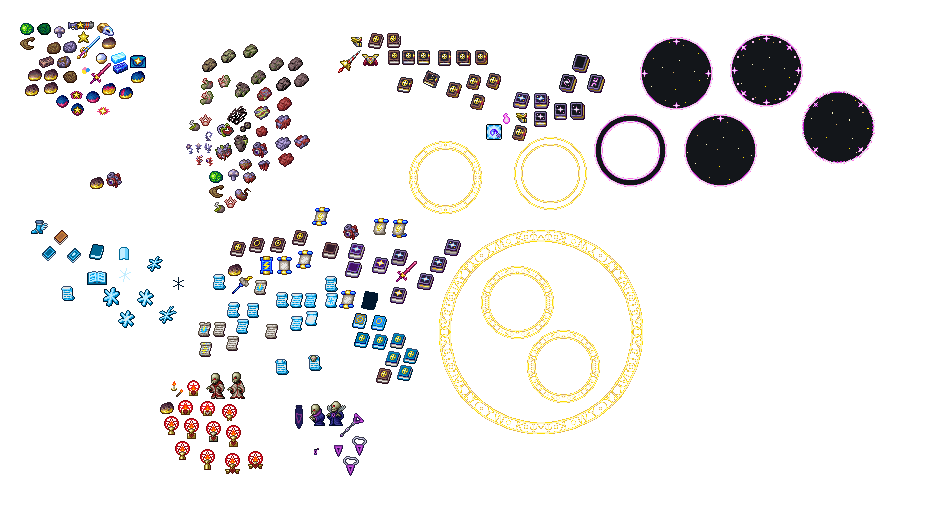
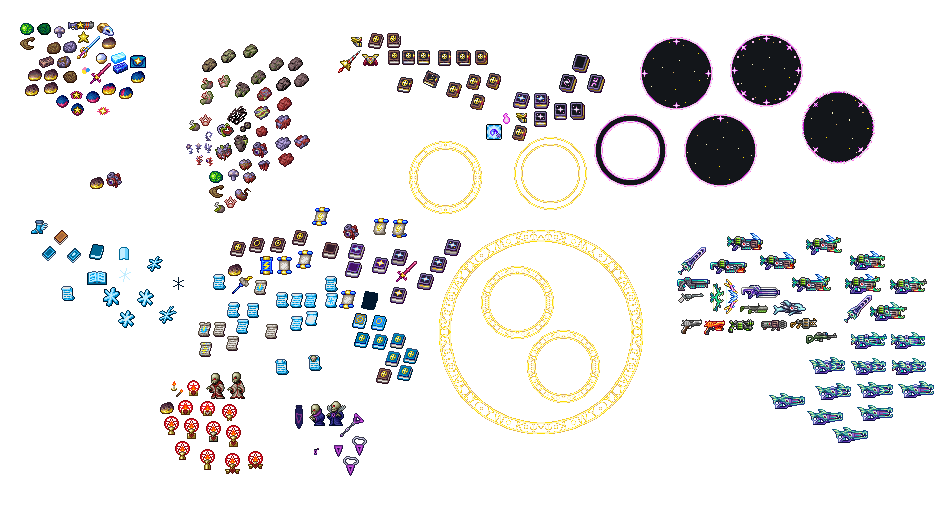
Meridian WIP

Changed region(s): [[0.7058, 0.4341, 1.0, 0.8682]]

diff --git a/Content/Items/Weapons/Ranged/Meridian.cs b/Content/Items/Weapons/Ranged/Meridian.cs
@@ -1,0 +1,166 @@
+using Microsoft.Xna.Framework;
+using SuperfluityTwo.Content.Projectiles;
+using Terraria;
+using Terraria.DataStructures;
+using Terraria.ID;
+using Terraria.ModLoader;
+
+namespace SuperfluityTwo.Content.Items.Weapons.Ranged
+{
+	public class Meridian : ModItem
+	{
+		public override void SetDefaults()
+		{
+			Item.width = 52;
+			Item.height = 24;
+			Item.useStyle = ItemUseStyleID.Shoot;
+			Item.shootSpeed = 20f;
+			Item.UseSound = SoundID.Item38;
+			Item.useAnimation = 12;
+			Item.useTime = 4;
+			Item.noMelee = true;
+			Item.crit = 29;
+			Item.damage = 190;
+			Item.DamageType = DamageClass.Ranged;
+			Item.knockBack = 3.5f;
+			Item.value = Item.sellPrice(gold: 20);
+			Item.rare = ItemRarityID.Red;
+			Item.useTurn = false;
+			Item.shoot = ModContent.ProjectileType<MeridianBullet>();
+			ItemID.Sets.IsRangedSpecialistWeapon[Type] = true;
+			//Item.scale = 0.75f;
+		}
+
+		public override void AddRecipes()
+		{
+			CreateRecipe()
+				.AddIngredient(ItemID.SDMG)
+				.AddIngredient(ItemID.Celeb2)
+				.AddIngredient(ItemID.RocketLauncher)
+				.AddIngredient(ItemID.Xenopopper)
+				.AddIngredient(ItemID.StakeLauncher)
+				.AddIngredient(ItemID.Tsunami)
+				.AddIngredient(ItemID.VenusMagnum)
+				.AddIngredient(ItemID.SuperStarCannon)
+				.AddIngredient(ItemID.TheUndertaker)
+				.AddIngredient(ItemID.EndlessMusketPouch)
+				.AddIngredient(ItemID.EndlessQuiver)
+				.AddTile(TileID.MythrilAnvil)
+				.Register();
+
+			CreateRecipe()
+				.AddIngredient(ItemID.SDMG)
+				.AddIngredient(ItemID.Celeb2)
+				.AddIngredient(ItemID.RocketLauncher)
+				.AddIngredient(ItemID.Xenopopper)
+				.AddIngredient(ItemID.StakeLauncher)
+				.AddIngredient(ItemID.Tsunami)
+				.AddIngredient(ItemID.VenusMagnum)
+				.AddIngredient(ItemID.SuperStarCannon)
+				.AddIngredient(ItemID.Musket)
+				.AddIngredient(ItemID.EndlessMusketPouch)
+				.AddIngredient(ItemID.EndlessQuiver)
+				.AddTile(TileID.MythrilAnvil)
+				.Register();
+		}
+
+		public override Vector2? HoldoutOffset()
+		{
+			return new Vector2(-14, -4);
+		}
+
+		int counter = 0;
+
+		public override void ModifyShootStats(Player player, ref Vector2 position, ref Vector2 velocity, ref int type, ref int damage, ref float knockback)
+		{
+			return;
+			switch (counter)
+			{
+				case 0:
+					type = ProjectileID.MoonlordBullet;
+					break;
+				case 1:
+					type = ProjectileID.CrystalBullet;
+					break;
+				case 2:
+					type = ProjectileID.IchorBullet;
+					break;
+				case 3:
+					type = ProjectileID.CursedBullet;
+					break;
+				case 4:
+					type = ProjectileID.ChlorophyteBullet;
+					break;
+				case 5:
+					type = ProjectileID.NanoBullet;
+					break;
+				case 6:
+					type = ProjectileID.SilverBullet;
+					break;
+				case 7:
+					type = ProjectileID.Stake;
+					break;
+				case 8:
+					type = ProjectileID.SuperStar;
+					break;
+				case 9:
+					type = ProjectileID.BoneArrow;
+					break;
+				case 10:
+					type = ProjectileID.FireArrow;
+					break;
+				case 11:
+					type = ProjectileID.FrostArrow;
+					break;
+				case 12:
+					type = ProjectileID.VenomArrow;
+					break;
+				case 13:
+					type = ProjectileID.JestersArrow;
+					break;
+				case 14:
+					type = ProjectileID.ShimmerArrow;
+					break;
+				case 15:
+					type = ProjectileID.UnholyArrow;
+					break;
+				case 16:
+					type = ProjectileID.Celeb2Rocket;
+					break;
+				case 17:
+					type = ProjectileID.Celeb2RocketLarge;
+					break;
+				case 18:
+					type = ProjectileID.MiniNukeSnowmanRocketI;
+					break;
+				case 19:
+					type = ProjectileID.VortexBeaterRocket;
+					break;
+			}
+
+			counter = (counter + 1) % 20;
+
+			position += new Vector2(24f, 0).RotatedByRandom(MathHelper.TwoPi) + velocity.SafeNormalize(Vector2.One).RotatedByRandom(MathHelper.PiOver4) * 32f;
+		}
+
+		int shootCount = 0;
+		public override bool Shoot(Player player, EntitySource_ItemUse_WithAmmo source, Vector2 position, Vector2 velocity, int type, int damage, float knockback)
+		{
+			if (shootCount >= 40 && player == Main.LocalPlayer)
+			{
+				for (int i = 0; i < 11; i++)
+				{
+					Projectile.NewProjectile(source, position, velocity.RotatedByRandom(MathHelper.PiOver4 * 0.33f), Main.rand.NextBool() ? ProjectileID.MoonlordBullet : ProjectileID.ChlorophyteBullet, damage, knockback, player.whoAmI);
+				}
+				shootCount -= 40;
+			}
+			shootCount++;
+			return true;
+		}
+
+		public override Color? GetAlpha(Color lightColor)
+		{
+			return Color.White;
+		}
+	}
+}

diff --git a/Content/Projectiles/MeridianBullet.cs b/Content/Projectiles/MeridianBullet.cs
@@ -1,0 +1,51 @@
+using System;
+using System.Threading;
+using Microsoft.CodeAnalysis;
+using Microsoft.Xna.Framework;
+using Terraria;
+using Terraria.Audio;
+using Terraria.DataStructures;
+using Terraria.ID;
+using Terraria.ModLoader;
+
+namespace SuperfluityTwo.Content.Projectiles
+{
+    public class MeridianBullet : ModProjectile
+    {
+        const int MAX_TIME = 600;
+        const int NO_COLLIDE_TIME = 20;
+        public override void SetDefaults()
+        {
+            Projectile.width = 14;
+            Projectile.height = 14;
+            Projectile.friendly = true;
+            Projectile.DamageType = DamageClass.Ranged;
+            Projectile.penetrate = -1;
+            Projectile.timeLeft = 600;
+            Projectile.ignoreWater = true;
+            Projectile.tileCollide = true;
+            Projectile.extraUpdates = 3;
+            //Projectile.aiStyle = ProjAIStyleID.
+        }
+
+        public override Color? GetAlpha(Color lightColor)
+        {
+            return Color.White;
+        }
+
+        public override bool TileCollideStyle(ref int width, ref int height, ref bool fallThrough, ref Vector2 hitboxCenterFrac)
+        {
+            return Projectile.timeLeft <= MAX_TIME - NO_COLLIDE_TIME;
+        }
+
+        public override void OnHitNPC(NPC target, NPC.HitInfo hit, int damageDone)
+        {
+            Projectile.damage = (int)(Projectile.damage * 0.95f);
+        }
+
+        public override void AI()
+        {
+            Projectile.rotation = Projectile.velocity.ToRotation();
+        }
+    }   
+}

diff --git a/obj/Debug/net8.0/SuperfluityTwo.AssemblyInfo.cs b/obj/Debug/net8.0/SuperfluityTwo.AssemblyInfo.cs
@@ -13,7 +13,7 @@ using System.Reflection;
 [assembly: System.Reflection.AssemblyCompanyAttribute("SuperfluityTwo")]
 [assembly: System.Reflection.AssemblyConfigurationAttribute("Debug")]
 [assembly: System.Reflection.AssemblyFileVersionAttribute("1.0.0.0")]
-[assembly: System.Reflection.AssemblyInformationalVersionAttribute("1.0.0+3df40aa2ae706aa2408db4cb0ef1c60c6756d2e1")]
+[assembly: System.Reflection.AssemblyInformationalVersionAttribute("1.0.0+4091db89a290de102b93501ff02faa2fa7d01573")]
 [assembly: System.Reflection.AssemblyProductAttribute("SuperfluityTwo")]
 [assembly: System.Reflection.AssemblyTitleAttribute("SuperfluityTwo")]
 [assembly: System.Reflection.AssemblyVersionAttribute("1.0.0.0")]
